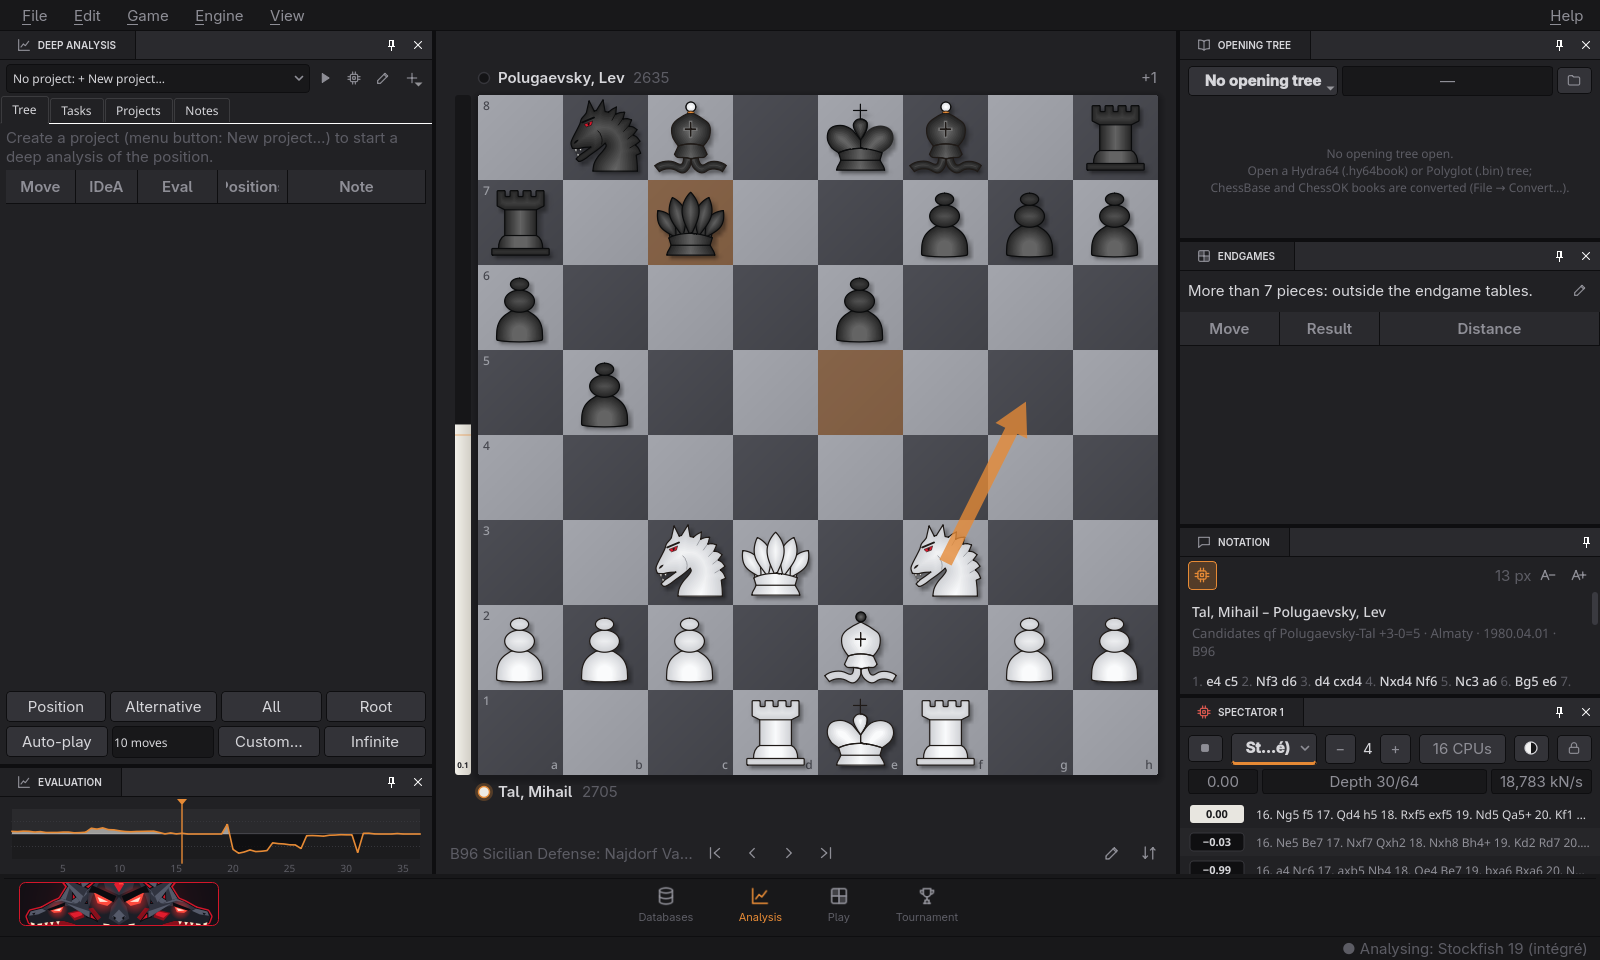
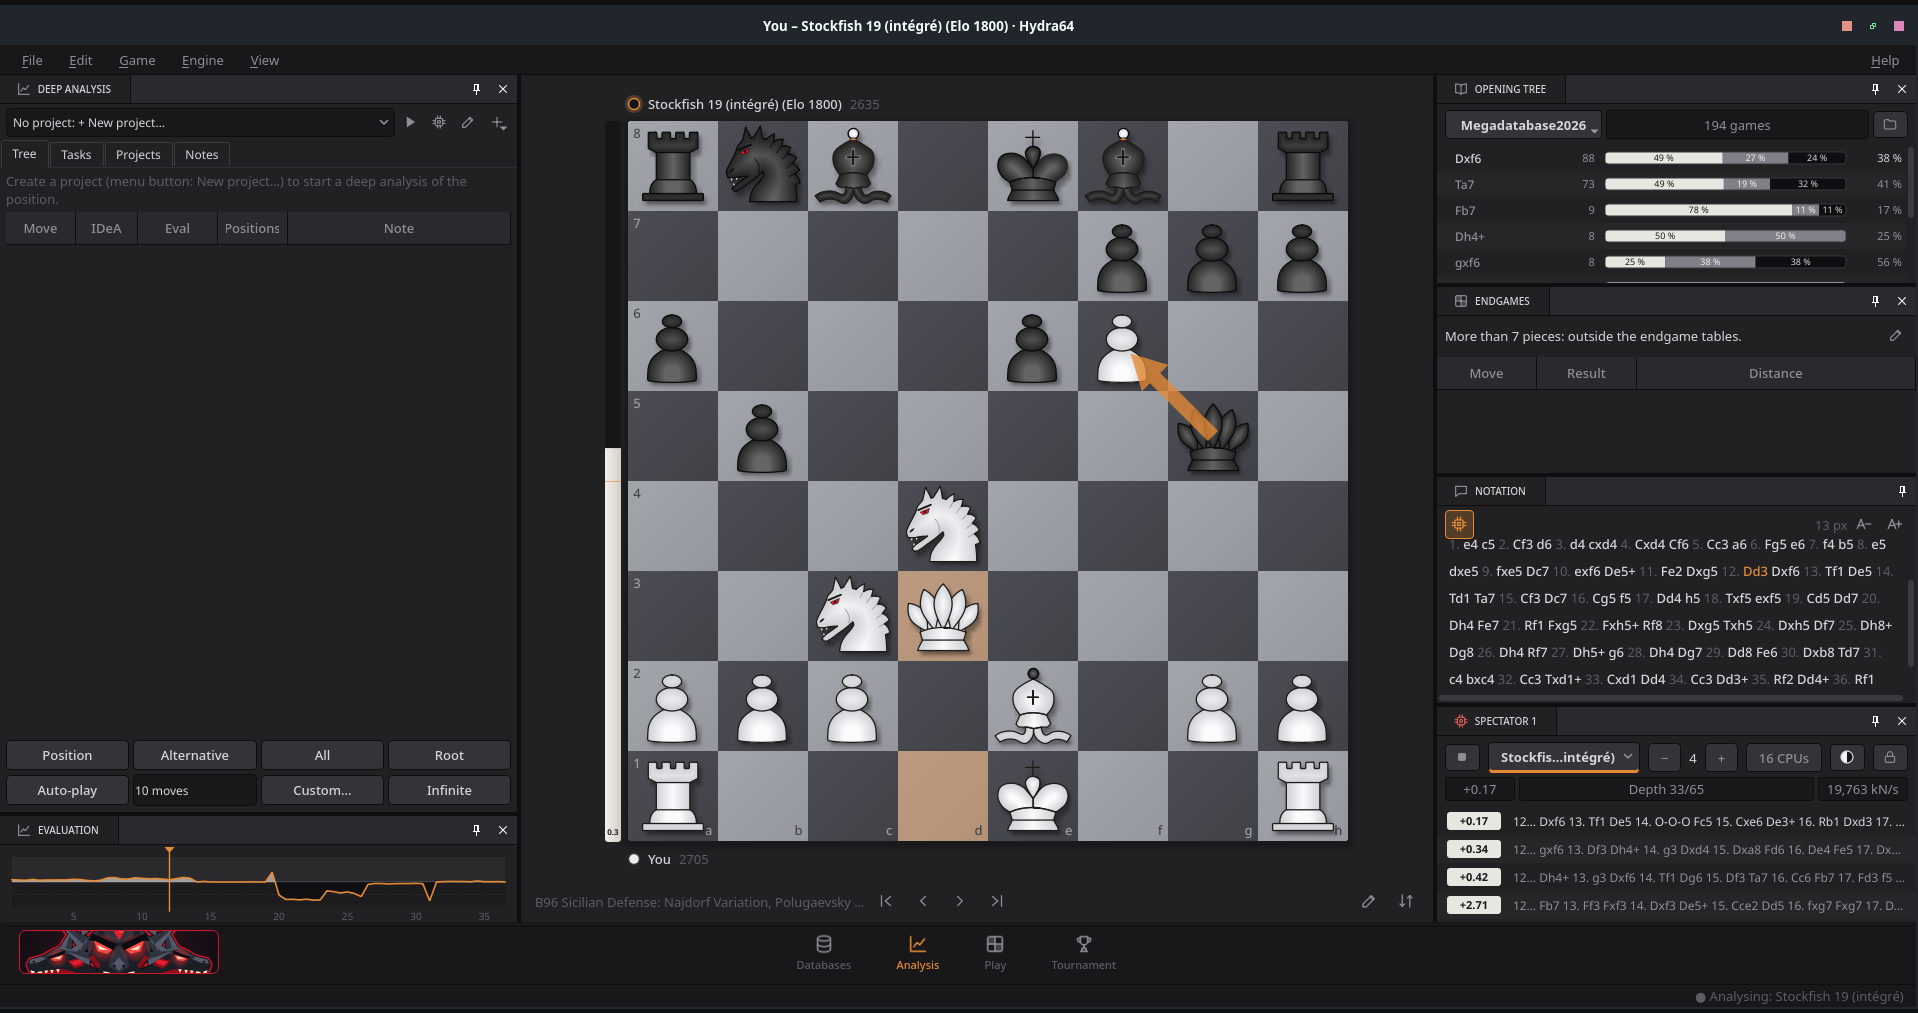
Notice publiée sur GitHub Pages ; nouvelles captures d'écran, page Tournoi ajoutée
- .github/workflows/pages.yml : publie Manual.html (seul, sous le nom index.html) sur
  https://antidote1911.github.io/Hydra64/ à chaque push qui le modifie.
- README : lien vers la notice en ligne, capture de la page Tournoi, descriptions des images.
- docs/screenshots/ : captures refaites, tournament.png ajoutée.

diff --git a/README.md b/README.md
@@ -11,7 +11,7 @@ dark, dockable interface.** C++20 / Qt 6, free software (GPL-3).
 ![C++20](https://img.shields.io/badge/C%2B%2B-20-00599C)
 ![Qt 6](https://img.shields.io/badge/Qt-6-41CD52)
 
-![Analysis page: board, evaluation graph, engine lines, notation](docs/screenshots/analysis.png)
+![Analysis page: board, deep analysis, evaluation graph, opening tree with statistics, notation and engine lines](docs/screenshots/analysis.png)
 
 ## What makes it different
 
@@ -37,11 +37,16 @@ dark, dockable interface.** C++20 / Qt 6, free software (GPL-3).
 
 | Databases | Play |
 |---|---|
-| ![Databases page: game list, board and notation](docs/screenshots/databases.png) | ![Play page: game against Stockfish with clocks and engine lines](docs/screenshots/play.png) |
+| ![Databases page: open databases, game list, board and notation](docs/screenshots/databases.png) | ![Play page: blitz game against Stockfish at Elo 1800, with clocks and evaluation](docs/screenshots/play.png) |
+
+**Engine tournament** — six games at once, standings with LOS, game list:
+
+![Tournament page: overview of six games in progress, participants, standings and game list](docs/screenshots/tournament.png)
 
 The interface is available in **English and French**, and so is the full user manual (every page,
-every feature, all file types): [`Manual.html`](Manual.html), to be opened in a browser — EN / FR
-buttons at the top right.
+every feature, all file types): **[read it online](https://antidote1911.github.io/Hydra64/)** — EN / FR
+buttons at the top right. It is the file [`Manual.html`](Manual.html) of this repository, which
+also opens in a browser without a connection.
 
 ## Building and running
 
